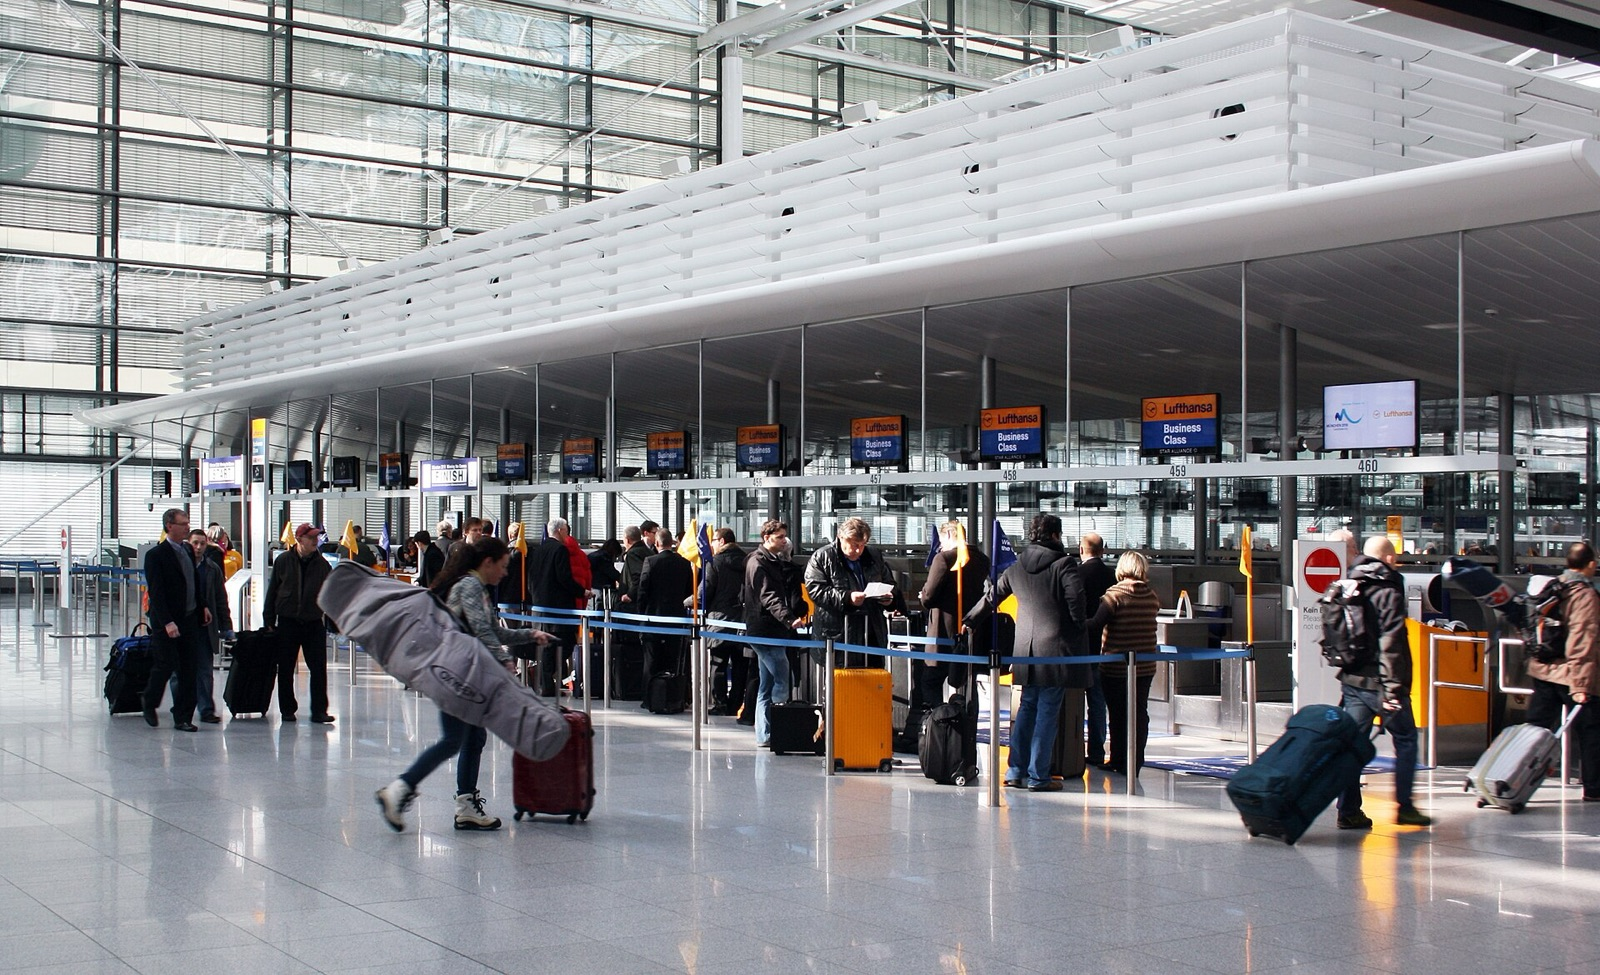
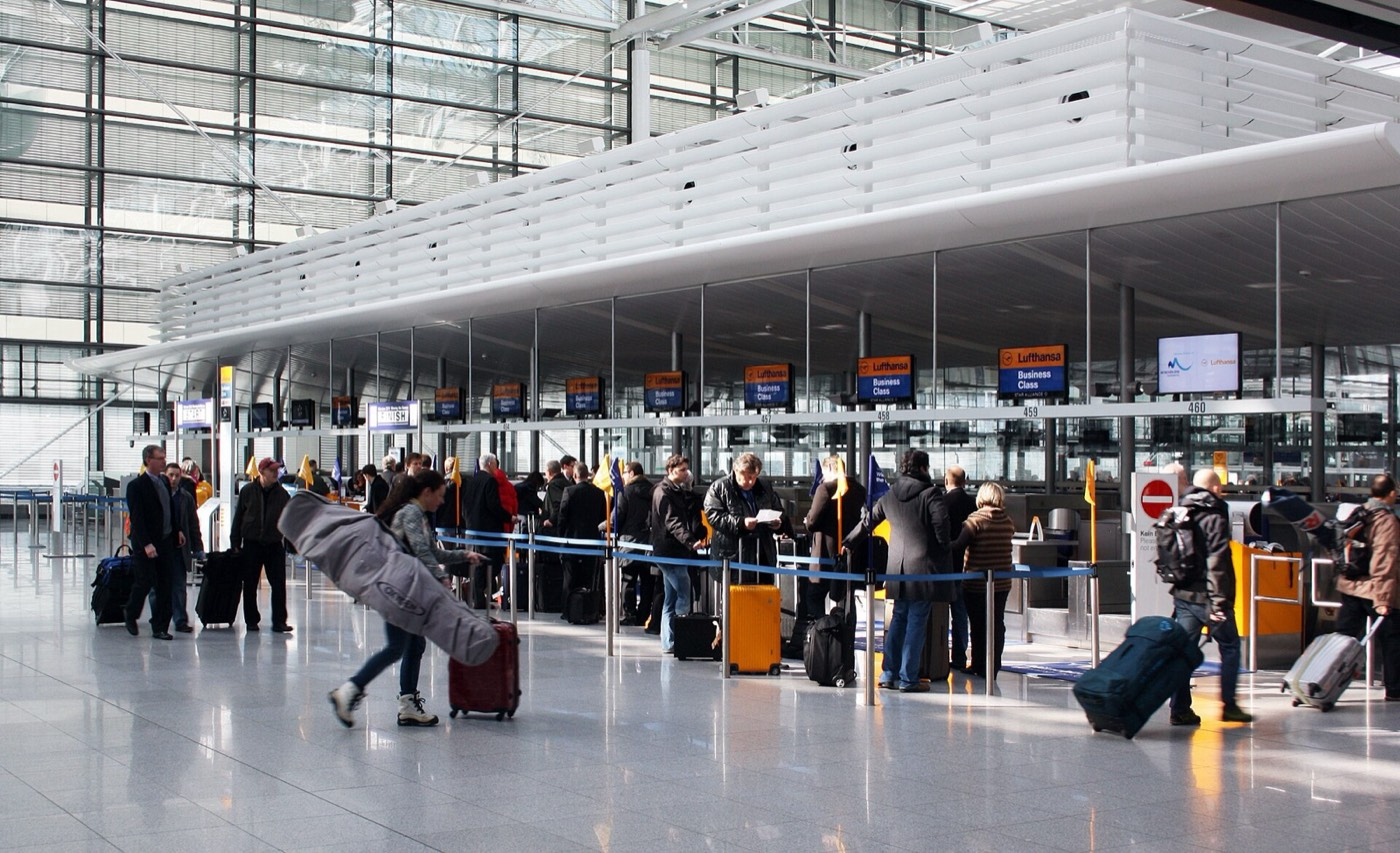
Landing Page: UX-Audit nach ui-ux-pro-max
- Fokusring je Fläche in Navy oder Orange, damit er überall mindestens 3:1 erreicht
  (Orange auf Weiß/Stein lag bei 2,3:1 bzw. 1,8:1)
- Innsbruck-Film spielt nicht mehr automatisch: auf dem Desktop nur, solange der
  Zeiger auf seiner Zeile liegt, auf dem Telefon mit eigener Steuerung
- Abflugtafel zeigt anfangs das Flughafenbild statt des Films
- Bilder auf 1400 px und stärker komprimiert (rund 3,2 MB auf 2,2 MB)

diff --git a/src/components/landing/Landing.tsx b/src/components/landing/Landing.tsx
@@ -198,16 +198,17 @@ export async function Landing() {
               ))}
               <li className="lp-idx-row" data-idx={ROUTES.length}>
                 <span className="lp-idx-name">{MORE_PLACES}</span>
-                <video className="lp-idx-inline" muted loop playsInline preload="none" poster="/landing/innsbruck-poster.jpg" aria-label={t("Das Inntal bei Innsbruck, von oben")}>
+                <video className="lp-idx-inline" controls muted loop playsInline preload="none" poster="/landing/innsbruck-poster.jpg" aria-label={t("Das Inntal bei Innsbruck, von oben")}>
                   <source src="/landing/innsbruck.webm" type="video/webm" />
                 </video>
               </li>
             </ul>
             <div className="lp-idx-frame" aria-hidden="true">
               {ROUTES.map((r, i) => (
-                <img key={r.name} data-for={i} src={img(r.image)} width={r.w} height={r.h} alt="" loading="lazy" decoding="async" />
+                <img key={r.name} data-for={i} className={i === 0 ? "is-on" : undefined} src={img(r.image)} width={r.w} height={r.h} alt="" loading="lazy" decoding="async" />
               ))}
-              <video data-for={ROUTES.length} className="is-on" muted loop playsInline autoPlay poster="/landing/innsbruck-poster.jpg">
+              {/* Der Film läuft nur, solange der Zeiger auf seiner Zeile liegt; sonst lädt er nicht einmal. */}
+              <video data-for={ROUTES.length} muted loop playsInline preload="none" poster="/landing/innsbruck-poster.jpg">
                 <source src="/landing/innsbruck.webm" type="video/webm" />
               </video>
             </div>

diff --git a/src/components/landing/Motion.tsx b/src/components/landing/Motion.tsx
@@ -53,24 +53,18 @@ export function Motion() {
       }
     };
     const enter = (e: Event) => show((e.currentTarget as HTMLElement).dataset.idx ?? "");
+    // Verlässt der Zeiger die Tafel, bleibt das Bild stehen, aber kein Film läuft weiter.
+    const leave = () => shots.forEach((s) => s instanceof HTMLVideoElement && s.pause());
+    const list = root.querySelector<HTMLElement>(".lp-idx-rows");
     rows.forEach((r) => r.addEventListener("pointerenter", enter));
-    if (reduce) shots.forEach((s) => s instanceof HTMLVideoElement && s.pause());
-
-    // Auf Touch-Geräten steht das Bild in der Zeile; der Film darin läuft nur, solange er zu sehen ist.
-    const inline = root.querySelector<HTMLVideoElement>("video.lp-idx-inline");
-    const vio = new IntersectionObserver(([e]) => {
-      if (!inline || reduce || getComputedStyle(inline).display === "none") return;
-      if (e.isIntersecting) void inline.play().catch(() => {});
-      else inline.pause();
-    });
-    if (inline) vio.observe(inline);
+    list?.addEventListener("pointerleave", leave);
 
     return () => {
       io.disconnect();
-      vio.disconnect();
       cancelAnimationFrame(frame);
       window.removeEventListener("scroll", onScroll);
       rows.forEach((r) => r.removeEventListener("pointerenter", enter));
+      list?.removeEventListener("pointerleave", leave);
     };
   }, []);
   return null;

diff --git a/src/components/landing/landing.css b/src/components/landing/landing.css
@@ -41,7 +41,11 @@
 .lp main { max-width: none; margin: 0; padding: 0; }
 .lp a { color: inherit; }
 .lp img, .lp video { display: block; max-width: 100%; height: auto; }
-.lp :focus-visible { outline: 3px solid var(--accent); outline-offset: 3px; }
+/* Fokusring mit mindestens 3:1 zur Fläche: Navy auf hellen Feldern, Orange auf dunklen. */
+.lp { --ring: var(--ink); }
+.lp-hero, .lp-folder[data-f="4"], .lp-strecken, .lp-cta, .lp-footer, .lp-panel { --ring: var(--accent); }
+.lp-folder[data-f="1"], .lp-folder[data-f="2"], .lp-folder[data-f="3"], .lp-folder[data-f="5"], .lp-panel[data-tone="d"] { --ring: var(--ink); }
+.lp :focus-visible { outline: 3px solid var(--ring); outline-offset: 3px; }
 .lp-sr { position: absolute; width: 1px; height: 1px; overflow: hidden; clip: rect(0 0 0 0); white-space: nowrap; }
 
 .lp-h2 {
@@ -206,7 +210,7 @@
   writing-mode: vertical-rl; transform: rotate(180deg);
   font-size: 20px; font-weight: 700; line-height: 1.1; cursor: pointer; white-space: nowrap;
 }
-.lp-panel input:focus-visible + .lp-panel-name { outline: 3px solid var(--accent); outline-offset: -6px; }
+.lp-panel input:focus-visible + .lp-panel-name { outline: 3px solid var(--ring); outline-offset: -6px; }
 .lp-panel:has(input:checked) .lp-panel-name {
   inset: 32px auto auto 32px; padding: 0;
   writing-mode: horizontal-tb; transform: none;
